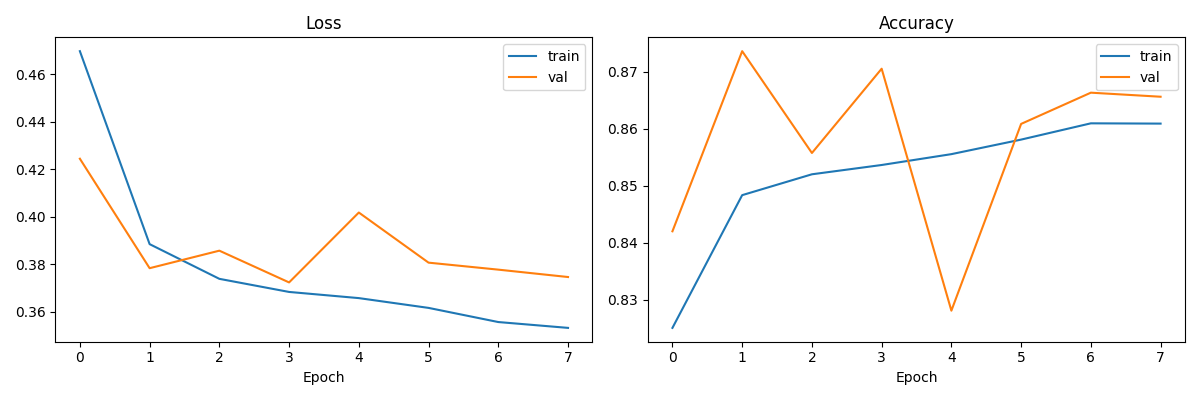
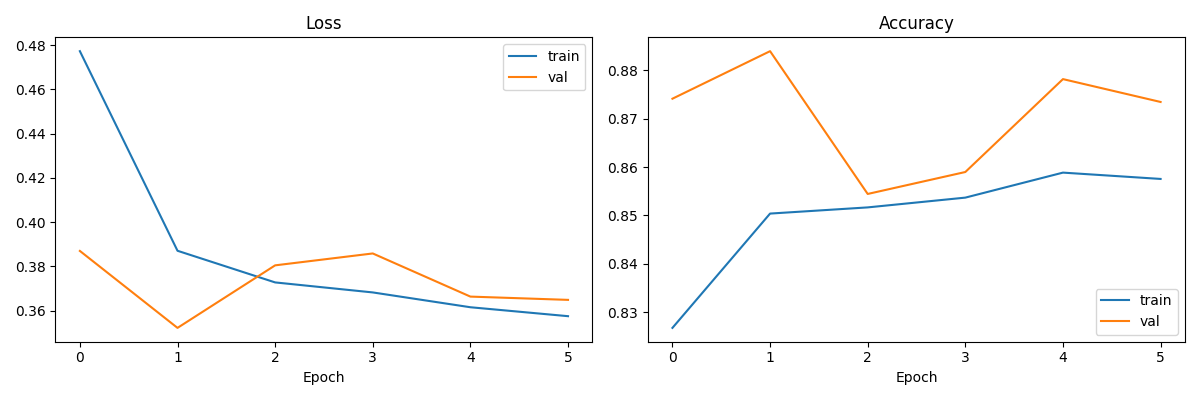
Model Trainer Improved

diff --git a/apps/model-trainer/src/main.py b/apps/model-trainer/src/main.py
@@ -1,13 +1,23 @@
 import argparse
 import json
+import os
+from collections.abc import Iterable
 from pathlib import Path
+import sys
 
 import numpy as np
+import modal
 
 from src.config import TRAINING
 from src.data.features import create_sequences
 from src.data.load import load_all_subjects
 from src.evaluate.metrics import plot_correlations
+
+os.environ.setdefault("PYTHONIOENCODING", "utf-8")
+if hasattr(sys.stdout, "reconfigure"):
+    sys.stdout.reconfigure(encoding="utf-8")
+if hasattr(sys.stderr, "reconfigure"):
+    sys.stderr.reconfigure(encoding="utf-8")
 
 
 def main():
@@ -34,58 +44,81 @@ def main():
     val_subjects = [s for s in subjects if s[0] in (14, 15)]
     test_subjects = [s for s in subjects if s[0] >= 16]
 
-    for seq_len in TRAINING.sequence_lengths:
-        print(f"\n{'=' * 60}")
-        print(f"Sensor sequence -> LSTM (seq_len={seq_len})")
-        print(
-            f"Input: ({seq_len}, {len(subjects[0][3])}) RRI features -> LSTM -> stress probability"
+    if args.online:
+        _train_online_all(
+            subjects,
+            train_subjects,
+            val_subjects,
+            test_subjects,
         )
-        print(f"{'=' * 60}")
-
-        def prepare_data(subj_list):
-            all_X, all_y = [], []
-            for _, v, l, _ in subj_list:
-                X_sub, y_sub = create_sequences(v, l, seq_len)
-                if len(X_sub) > 0:
-                    all_X.append(X_sub)
-                    all_y.append(y_sub)
-            return np.concatenate(all_X), np.concatenate(all_y)
-
-        X_train_seq, y_train_seq = prepare_data(train_subjects)
-        X_val_seq, y_val_seq = prepare_data(val_subjects)
-        X_test_seq, y_test_seq = prepare_data(test_subjects)
-
-        print(
-            f"Train sequences: {X_train_seq.shape}, Val: {X_val_seq.shape}, Test: {X_test_seq.shape}"
-        )
-        print(
-            f"Stress ratio - Train: {y_train_seq.mean():.3f}, Val: {y_val_seq.mean():.3f}, Test: {y_test_seq.mean():.3f}"
-        )
-
-        if args.online:
-            _train_online(
+    else:
+        for seq_len in TRAINING.sequence_lengths:
+            _train_local_sequence(
                 seq_len,
-                X_train_seq,
-                y_train_seq,
-                X_val_seq,
-                y_val_seq,
-                X_test_seq,
-                y_test_seq,
-            )
-        else:
-            _train_local(
-                seq_len,
-                X_train_seq,
-                y_train_seq,
-                X_val_seq,
-                y_val_seq,
-                X_test_seq,
-                y_test_seq,
+                subjects,
+                train_subjects,
+                val_subjects,
+                test_subjects,
             )
 
     print(f"\nAll models saved to: {TRAINING.models_dir}")
     print(
         "\nArchitecture: [RRI sensor readings] -> sequence -> LSTM -> stress prediction"
+    )
+
+
+def _prepare_data(
+    subj_list: Iterable[tuple[int, np.ndarray, np.ndarray, list[str]]],
+    seq_len: int,
+) -> tuple[np.ndarray, np.ndarray]:
+    all_X, all_y = [], []
+    for _, v, l, _ in subj_list:
+        X_sub, y_sub = create_sequences(v, l, seq_len)
+        if len(X_sub) > 0:
+            all_X.append(X_sub)
+            all_y.append(y_sub)
+
+    if not all_X or not all_y:
+        raise ValueError(f"No training sequences could be created for seq_len={seq_len}")
+
+    X = np.concatenate(all_X).astype(np.float32, copy=False)
+    y = np.concatenate(all_y).astype(np.uint8, copy=False)
+    return X, y
+
+
+def _train_local_sequence(
+    seq_len: int,
+    subjects: list[tuple[int, np.ndarray, np.ndarray, list[str]]],
+    train_subjects: list[tuple[int, np.ndarray, np.ndarray, list[str]]],
+    val_subjects: list[tuple[int, np.ndarray, np.ndarray, list[str]]],
+    test_subjects: list[tuple[int, np.ndarray, np.ndarray, list[str]]],
+) -> None:
+    print(f"\n{'=' * 60}")
+    print(f"Sensor sequence -> LSTM (seq_len={seq_len})")
+    print(
+        f"Input: ({seq_len}, {len(subjects[0][3])}) RRI features -> LSTM -> stress probability"
+    )
+    print(f"{'=' * 60}")
+
+    X_train_seq, y_train_seq = _prepare_data(train_subjects, seq_len)
+    X_val_seq, y_val_seq = _prepare_data(val_subjects, seq_len)
+    X_test_seq, y_test_seq = _prepare_data(test_subjects, seq_len)
+
+    print(
+        f"Train sequences: {X_train_seq.shape}, Val: {X_val_seq.shape}, Test: {X_test_seq.shape}"
+    )
+    print(
+        f"Stress ratio - Train: {y_train_seq.mean():.3f}, Val: {y_val_seq.mean():.3f}, Test: {y_test_seq.mean():.3f}"
+    )
+
+    _train_local(
+        seq_len,
+        X_train_seq,
+        y_train_seq,
+        X_val_seq,
+        y_val_seq,
+        X_test_seq,
+        y_test_seq,
     )
 
 
@@ -106,40 +139,57 @@ def _train_local(
     print(f"\nClassification Report (seq_len={seq_len}):\n{report}")
 
 
-def _train_online(
-    seq_len: int,
-    X_train: np.ndarray,
-    y_train: np.ndarray,
-    X_val: np.ndarray,
-    y_val: np.ndarray,
-    X_test: np.ndarray,
-    y_test: np.ndarray,
-):
-    from src.remote.modal_app import train_remote
+def _train_online_all(
+    subjects: list[tuple[int, np.ndarray, np.ndarray, list[str]]],
+    train_subjects: list[tuple[int, np.ndarray, np.ndarray, list[str]]],
+    val_subjects: list[tuple[int, np.ndarray, np.ndarray, list[str]]],
+    test_subjects: list[tuple[int, np.ndarray, np.ndarray, list[str]]],
+) -> None:
+    from src.remote.modal_app import app, train_remote
 
-    n_features = X_train.shape[2]
-    print("Sending data to Modal for training...")
-    artifacts = train_remote.remote(
-        X_train,
-        y_train,
-        X_val,
-        y_val,
-        X_test,
-        y_test,
-        seq_len,
-        n_features,
-    )
+    print("Sending all sequence lengths to Modal for parallel training...")
 
+    jobs: dict[int, object] = {}
+    with modal.enable_output():
+        with app.run():
+            for seq_len in TRAINING.sequence_lengths:
+                print(f"Queueing remote training job for seq_len={seq_len}...")
+                X_train_seq, y_train_seq = _prepare_data(train_subjects, seq_len)
+                X_val_seq, y_val_seq = _prepare_data(val_subjects, seq_len)
+                X_test_seq, y_test_seq = _prepare_data(test_subjects, seq_len)
+                jobs[seq_len] = train_remote.spawn(
+                    X_train_seq,
+                    y_train_seq,
+                    X_val_seq,
+                    y_val_seq,
+                    X_test_seq,
+                    y_test_seq,
+                    seq_len,
+                    X_train_seq.shape[2],
+                )
+
+            for seq_len in TRAINING.sequence_lengths:
+                print(f"Waiting for remote artifacts for seq_len={seq_len}...")
+                artifacts = jobs[seq_len].get()
+                _save_remote_artifacts(seq_len, artifacts)
+                _print_remote_metrics(seq_len)
+
+
+def _save_remote_artifacts(seq_len: int, artifacts: dict[str, bytes]) -> None:
     model_dir = TRAINING.models_dir / f"seq_{seq_len}"
     model_dir.mkdir(parents=True, exist_ok=True)
 
-    for rel_path, data in artifacts.items():
+    for rel_path, data in sorted(artifacts.items()):
         dst = model_dir / rel_path
         dst.parent.mkdir(parents=True, exist_ok=True)
         dst.write_bytes(data)
         print(f"  Downloaded: {rel_path} ({len(data)} bytes)")
 
-    report_path = model_dir / "results.json"
+    print(f"  Saved artifacts to: {model_dir}")
+
+
+def _print_remote_metrics(seq_len: int) -> None:
+    report_path = TRAINING.models_dir / f"seq_{seq_len}" / "results.json"
     if report_path.exists():
         with open(report_path) as f:
             metrics = json.load(f)

diff --git a/apps/model-trainer/src/remote/modal_app.py b/apps/model-trainer/src/remote/modal_app.py
@@ -19,7 +19,7 @@ image = (
 app = modal.App("train-wesad-lstm", image=image)
 
 
[email redacted](gpu="any", timeout=3600)
[email redacted](cpu=1.0, memory=5120, timeout=3600)
 def train_remote(
     X_train: np.ndarray,
     y_train: np.ndarray,
@@ -37,9 +37,14 @@ def train_remote(
     from src.training.trainer import train_model
     from src.evaluate.metrics import evaluate_model
 
+    print(
+        f"[remote] starting training seq_len={seq_len}, n_features={n_features}",
+        flush=True,
+    )
     model = train_model(seq_len, X_train, y_train, X_val, y_val)
+    print(f"[remote] training finished seq_len={seq_len}", flush=True)
     report = evaluate_model(model, X_test, y_test, seq_len)
-    print(f"\nClassification Report:\n{report}")
+    print(f"\n[remote] Classification Report (seq_len={seq_len}):\n{report}", flush=True)
 
     model_dir = Path("/tmp/models") / f"seq_{seq_len}"
     artifacts = {}
@@ -47,4 +52,6 @@ def train_remote(
         if f.is_file():
             rel = str(f.relative_to(model_dir))
             artifacts[rel] = f.read_bytes()
+            print(f"[remote] packaged artifact: {rel}", flush=True)
+    print(f"[remote] returning {len(artifacts)} artifacts for seq_len={seq_len}", flush=True)
     return artifacts

diff --git a/apps/model-trainer/src/evaluate/metrics.py b/apps/model-trainer/src/evaluate/metrics.py
@@ -35,6 +35,9 @@ def evaluate_model(model, X_test: np.ndarray, y_test: np.ndarray, seq_len: int):
     metrics = {
         "seq_len": seq_len,
         "threshold": threshold,
+        "mean_stress_probability": float(np.mean(y_prob)),
+        "max_stress_probability": float(np.max(y_prob)),
+        "min_stress_probability": float(np.min(y_prob)),
         "auc": float(auc),
         "accuracy": float(acc),
         "f1": float(f1),
@@ -49,6 +52,13 @@ def evaluate_model(model, X_test: np.ndarray, y_test: np.ndarray, seq_len: int):
     print(f"\nROC-AUC Score: {auc:.4f}")
     print(f"Decision Threshold: {threshold}")
     print(f"Accuracy: {acc:.4f}, F1: {f1:.4f}")
+    print(
+        "Stress probability summary - "
+        f"mean: {metrics['mean_stress_probability']:.4f}, "
+        f"min: {metrics['min_stress_probability']:.4f}, "
+        f"max: {metrics['max_stress_probability']:.4f}"
+    )
+    print(f"Sample stress probabilities: {np.array2string(y_prob[:10], precision=4)}")
 
     model_dir = TRAINING.models_dir / f"seq_{seq_len}"
     with open(model_dir / "results.json", "w") as f: